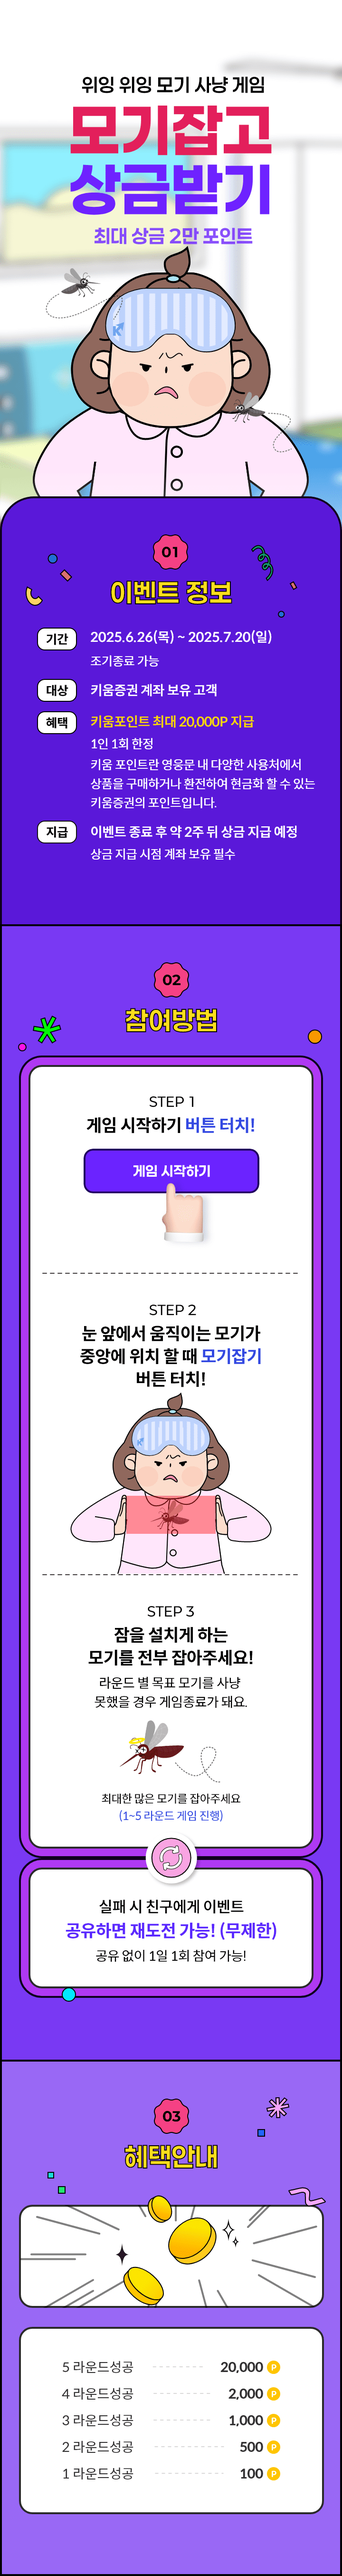
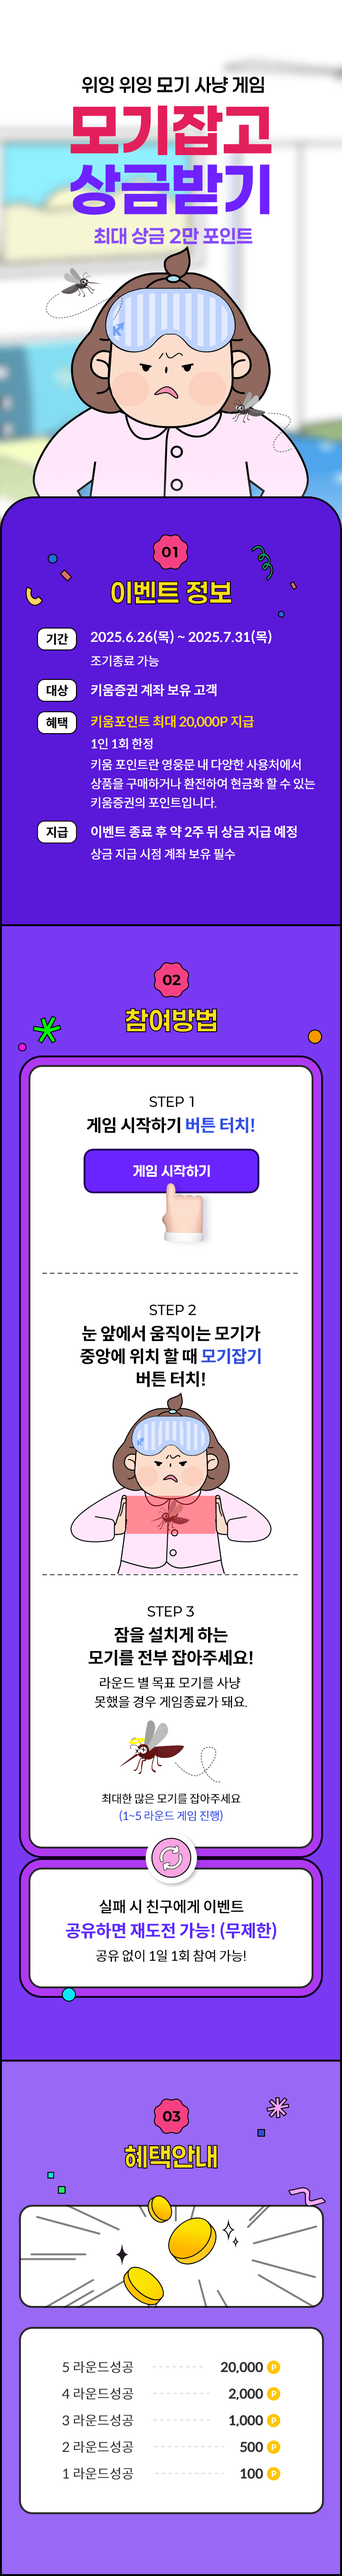
주식더모으기 : 수정

Changed region(s): [[0.2444, 0.9358, 0.275, 0.967], [0.0, 0.156, 0.0306, 0.1872]]

diff --git a/mosquito_event/src/html/event.html b/mosquito_event/src/html/event.html
@@ -68,7 +68,7 @@
             </dl>
             <div class="footer">
                 <div class="logo"><img src="../assets/images/logo_footer.png" alt="키움증권"></div>
-                <p>키움증권 준법감시인 심사필 제 2025-01217호<br>(2025.6.26~2025.7.20)</p>
+                <p>키움증권 준법감시인 심사필 제 2025-01217호<br>(2025.6.26~2025.7.31)</p>
             </div>
         </div>
         <div class="btn_wrap"><button type="button" onclick="popup.open('popup_event');"><img src="../assets/images/btn_event.png" alt="이벤트 참여하기"></button></div>

diff --git a/more_stock/src/html/settlement.html b/more_stock/src/html/settlement.html
@@ -104,7 +104,7 @@
         </div>
         <div class="btn_bottom">
             <div class="btn_start"><button type="button">주식 더 모으기 시작하기</button></div>
-            <p class="examination">키움증권 준법감사인 심사필 제 00-00000호(2025.00.00~2025.00.00)</p>
+            <p class="examination">키움증권 준법감사인 심사필 제 25-01488(25.07.31~26.07.30)</p>
         </div>
     </div>
     <script src="../assets/js/jquery-3.3.1.min.js"></script>
